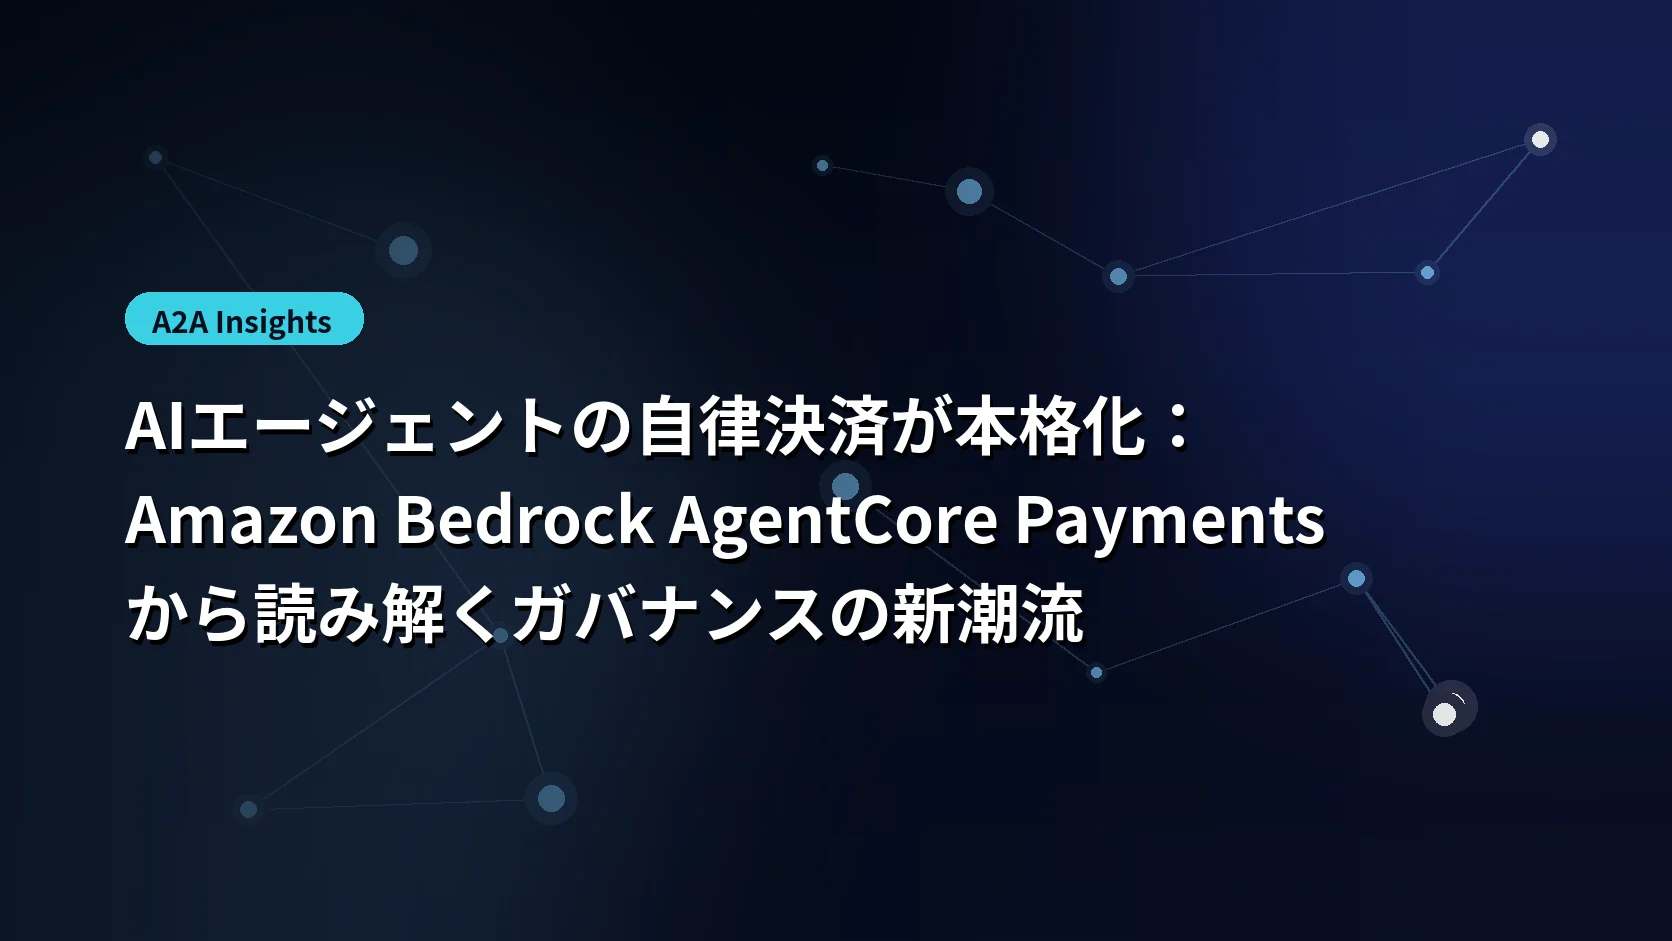
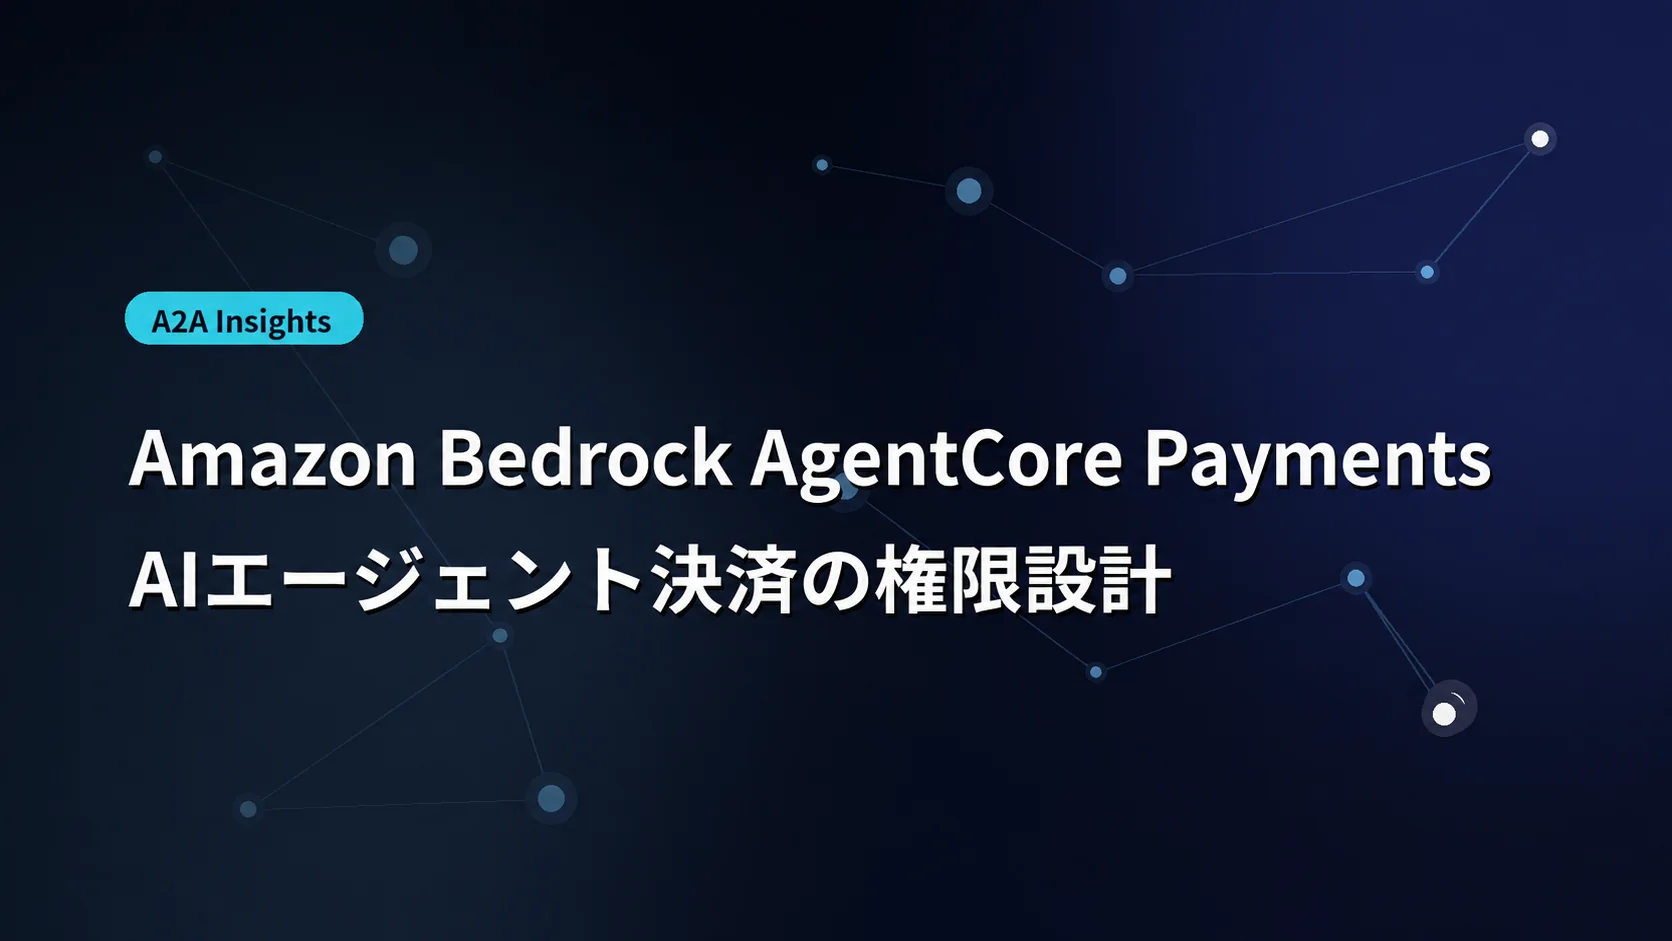
記事の文体とサムネイルを調整

Changed region(s): [[0.0622, 0.4006, 0.9019, 0.7088], [0.0933, 0.3082, 0.2177, 0.3698]]

diff --git a/blog/src/content/posts/2026-09-02-a2a-insights-e20c37b270c1.md b/blog/src/content/posts/2026-09-02-a2a-insights-e20c37b270c1.md
@@ -1,63 +1,65 @@
 ---
-title: "AIエージェントの自律決済が本格化：Amazon Bedrock AgentCore Paymentsから読み解くガバナンスの新潮流"
-shortTitle: "AIエージェントの自律決済が本格化"
-description: "AWSは、AIエージェントが自律的かつ安全に取引を行うためのマネージドサービス「Amazon Bedrock AgentCore Payments」の一般提供を開始しました。本サービスは、Payment Session単位の厳密な支出上限と有効期限を設け、LLMの外側にあるインフラ層で決済を強制的に統制します。企業の技術意思決定者は、決済やツールの実行権限を"
+title: "Amazon Bedrock AgentCore Paymentsとは？AIエージェント決済の権限設計"
+shortTitle: "AgentCore Paymentsの権限設計"
+description: "Amazon Bedrock AgentCore Paymentsは、AIエージェントの支払いに上限額と有効期限を設定し、インフラ側で制御するAWSのサービスです。仕組みと導入時の注意点を整理します。"
 pubDate: 2026-09-02
-tags: ["A2A", "ニュース解説"]
+tags: ["AIエージェント", "AgentCore Payments", "x402"]
 category: "ニュース解説"
-readingTime: "7分"
+readingTime: "5分"
 heroImage: "/blog/2026-09-02-a2a-insights-e20c37b270c1-eyecatch.webp"
-heroAlt: "「AIエージェントの自律決済が本格化：Amazon Bedrock AgentCore Paymentsから読み解くガバナンスの新潮流」の白文字と、暗い背景に発光するノードと接続線を配したビジュアル"
+heroAlt: "AIエージェントから有料APIへの支払いを、予算上限と有効期限のあるセッションが仲介する構成"
 featured: false
+breaking: false
+draft: false
 ---
-## エージェント決済におけるガバナンスと実装の壁
+AIエージェントに決済を任せる場合、見るべき点は、誰が上限を決め、どこで超過を止めるかです。Amazon Bedrock AgentCore Paymentsは、この制御をモデルへの指示ではなく、決済処理を行うインフラ側に置きます。
 
-AIエージェントが自律的に外部の有料APIやサービスを利用する際、従来は各サービスに対して個別に決済情報を管理する必要があり、運用負荷とセキュリティリスクが課題となっていました。Hugging Faceの内部評価環境におけるエージェント侵入事案が示すように、プロンプトレベルでの禁止指示だけでは不十分であり、モデルが到達できる権限、ネットワーク、そして支出可能額を外部境界で物理的に制約する仕組みが不可欠です。しかし、予期せぬ高額リクエストを防ぐ独自の決済監視システムやウォレット管理基盤を自前で構築することは、企業にとって極めて大きな実装の壁となっていました。
+## 支出上限を決済インフラ側で検査する
 
-## AgentCore PaymentsとHTTP 402：インフラ層での支出強制
+AWSは2026年9月、Amazon Bedrock AgentCore Paymentsの一般提供（GA）を開始しました。[AWSの公式発表](https://aws.amazon.com/blogs/machine-learning/amazon-bedrock-agentcore-payments-is-now-generally-available-enabling-agents-to-transact-safely-and-autonomously-at-scale/)によると、AIエージェントは有料APIやMCP、コンテンツへの支払いをAgentCore経由で処理できます。
 
-Amazon Bedrock AgentCore Paymentsは、これらの課題を解決する完全マネージドサービスです。最大の特徴は、エージェントのプロンプトに依存せず、LLMの外側にあるインフラ層で支払いを物理的に制限・拒否する点にあります。
+決済にはPayment Sessionを使います。セッションごとに支出上限と有効期限を設定し、条件を超える支払いは署名前に拒否されます。モデルへの指示ではなく、Payment Sessionの条件で支払いを止めます。
 
-具体的には、以下のような処理フローとなります。
+## 支払いはPayment Session単位で制御する
 
-1. アプリケーションのバックエンドが、`maxSpendAmount`（累積支出上限）と`expiry`（有効期限）を設定したPayment Sessionを発行します。
+処理は5段階です。
 
-2. エージェントが有料APIへアクセスし、`HTTP 402 Payment Required`レスポンスを受け取ります。
+1. アプリケーションのバックエンドが、支出上限と有効期限を指定してPayment Sessionを作成する
+2. エージェントが有料APIへアクセスし、`HTTP 402 Payment Required`を受け取る
+3. エージェントが`ProcessPayment`を呼び出す
+4. AgentCore Paymentsがセッションの条件を確認し、接続されたウォレットで支払いへ署名する
+5. エージェントが支払い証明を付けてAPIを再実行する
 
-3. エージェントが`ProcessPayment`アクションを呼び出します。
+GA時点ではx402に加えてMachine Payment Protocol（MPP）にも対応しています。決済プロトコルごとの処理をAgentCore側で扱うため、エージェント側で個別に実装する範囲が減ります。
 
-4. AgentCore Paymentsがセッション残高や支出上限をチェックし、Coinbase CDPやStripe Privyのembedded stablecoin walletを用いて署名とPayment Proofを生成します。
+## Ampersendは決済権限をエージェントから分離した
 
-5. エージェントがProofを添えてAPIを再実行します。
+[AWSが紹介するAmpersendの事例](https://aws.amazon.com/blogs/machine-learning/building-pay-per-intelligence-for-ai-agents-how-ampersend-uses-amazon-bedrock-agentcore-payments/)では、エージェントからAmpersendを経由してモデル提供者へ支払う2段階の構成を採用しています。
 
-AWS自身が「プロトコル非依存」と表現する通り、GA時点ではx402やMPP（Machine Payment Protocol）といった主要プロトコルに対応し、外部サービスへの支払いがインフラ層で安全に統制されます。
+エージェントに付与するIAMロールは`ProcessPayment`の実行に限定し、予算の変更やウォレットキーへのアクセスを許可していません。支払いを実行する権限と、支払い条件を変更する権限を分けた設計です。
 
-## Ampersendの事例に見るTwo-hop Paymentと実装の大幅短縮
+Ampersendは、ウォレット管理や署名、支出制御を自前で構築する場合は3〜4か月かかると見積もっていましたが、AgentCore Paymentsとの統合は2週間未満で完了したと説明しています。これは一社の事例であり、一般的な導入期間を示す数値ではありません。
 
-本サービスの導入効果は、AIエージェントの従量課金モデルを提供するAmpersendの実装事例に顕著に表れています。同社は「Agent → Ampersend → Model Provider」というTwo-hop Paymentの構成を採用しています。エージェント自身には`ProcessPayment`のみを実行可能なIAMロールを付与し、予算の変更やウォレットキーへのアクセス権限を持たせません。Ampersend側がモデル選択と2段目の決済を担うことで、職務分掌と権限分離を明確にしています。
+## AP2は許可内容、AgentCoreは支払い条件を扱う
 
-特筆すべきは、独自構築であればウォレットの管理、署名、支出制御だけで3〜4か月かかると見積もられていた決済基盤が、AgentCore側のネイティブな管理機能を利用することで2週間未満で統合できたという点です。これは単なる製品機能の追加にとどまらず、エンタープライズにおける決済機能付きエージェントの実装障壁が大きく下がったことを意味します。
+[GoogleのAgent Payments Protocol（AP2）](https://cloud.google.com/blog/products/ai-machine-learning/announcing-agents-to-payments-ap2-protocol)は、ユーザーの依頼や購入条件をIntent Mandate、確定した購入内容をCart Mandateとして記録し、意図から決済までの監査可能な証跡を作る枠組みです。
 
-## Google AP2との比較：認可のプロトコル化とインフラ強制
+AP2が「誰が何を許可したか」を記録するのに対し、AgentCore PaymentsはPayment Sessionの条件に従って実際の支払いを制御します。認可の証跡と支払い時の強制制御は別の役割です。AP2とAgentCore Paymentsは置き換え関係ではありません。
 
-この動きはAWS単独のものではなく、業界全体のパラダイムシフトを示しています。例えばGoogleが発表したAgent Payments Protocol（AP2）は、ユーザーがエージェントに与えた権限（対象マーチャント、金額上限、期間など）を「Intent Mandate」として暗号的に記録し、条件を超えれば人間の承認を要求する仕組みを採用しています。
+## 導入前に決めること
 
-Google AP2が「ユーザーの意思をIntent MandateからPayment Mandateへと変換し、誰が何を許可したかを標準プロトコルとして証明する（Cryptographic authorization）」アプローチであるのに対し、AWS AgentCore Paymentsは「Payment SessionとProcessPaymentを用いて、実際の支払いをインフラ側で強制的に制限する（Infrastructure enforcement）」アプローチをとっています。両者の実装方針は異なりますが、「プロンプトによる安全性担保」から「暗号的認可とインフラ強制」へと業界の潮流が大きく移行している点は共通しています。
+AgentCore Paymentsを使う場合も、次の設計はアプリケーション側に残ります。
 
-## 示唆
+- Payment Sessionを作成できる主体と、上限額を変更できる主体
+- `ProcessPayment`だけを実行するIAMロールの分離
+- ウォレット認証情報の保管、更新、失効方法
+- 再試行や重複支払いを検知するログと監視
+- A2Aによるタスク委譲と、決済を許可する権限の分離
 
-AgentCore Paymentsの登場とエージェント侵入事例が示す最大の教訓は、巨大な万能エージェントに決済やツール実行の全権限を持たせることの危険性です。暴走リスクを抑え込むためには、権限ごとに専門エージェントやランタイムを分離する設計が不可欠です。
+サービスの導入だけで権限設計が完了するわけではありません。まず支出上限、権限の分離、監査方法を決め、その範囲内でエージェントに支払いを任せる必要があります。
 
-ここで重要になるのが、A2Aプロトコルの位置づけです。A2A自体はセキュリティ境界ではありません。A2Aが担当するのはAgent Cardによる機能の発見（capability discovery）やタスク委譲、メッセージ交換などの通信層です。一方で、セキュリティ境界を作るのはIAM、OAuth、ランタイムの分離、そしてPayment Sessionといった仕組みです。
+## 参照した一次情報
 
-企業は「A2Aだから安全」と考えるのではなく、「各専門エージェントを異なるIAMや決済の権限境界に閉じ込め、その強固な境界を越えたタスク委譲だけをA2Aで標準化する」というアーキテクチャを描く必要があります。決済ガードレールがインフラ層に吸収されたことで、独立した専門エージェント群を安全に協調させる体制こそが、エンタープライズにおけるマルチエージェント・アーキテクチャの次なる主戦場となるでしょう。
-
-## 参照元
-
-- [AWS](https://aws.amazon.com/blogs/machine-learning/amazon-bedrock-agentcore-payments-is-now-generally-available-enabling-agents-to-transact-safely-and-autonomously-at-scale/)
-- [AWS](https://aws.amazon.com/blogs/machine-learning/introducing-agent-to-agent-protocol-support-in-amazon-bedrock-agentcore-runtime/)
-- [Simon Willison](https://simonwillison.net/2026/Jul/28/anatomy-of-a-frontier-lab-agent-intrusion/)
-- [The Hacker News](https://thehackernews.com/2026/07/openai-says-its-own-ai-models-escaped.html)
-- [AWS](https://aws.amazon.com/blogs/machine-learning/building-pay-per-intelligence-for-ai-agents-how-ampersend-uses-amazon-bedrock-agentcore-payments/)
-- [Google Cloud](https://cloud.google.com/blog/products/ai-machine-learning/announcing-agents-to-payments-ap2-protocol)
-- [Hugging Face](https://huggingface.co/blog/agent-intrusion-technical-timeline)
+- [Amazon Bedrock AgentCore payments is now generally available（AWS）](https://aws.amazon.com/blogs/machine-learning/amazon-bedrock-agentcore-payments-is-now-generally-available-enabling-agents-to-transact-safely-and-autonomously-at-scale/)
+- [Building pay-per-intelligence for AI agents（AWS）](https://aws.amazon.com/blogs/machine-learning/building-pay-per-intelligence-for-ai-agents-how-ampersend-uses-amazon-bedrock-agentcore-payments/)
+- [Announcing Agent Payments Protocol（Google Cloud）](https://cloud.google.com/blog/products/ai-machine-learning/announcing-agents-to-payments-ap2-protocol)
